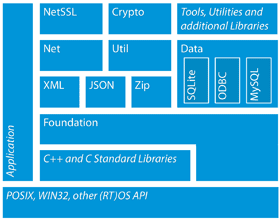
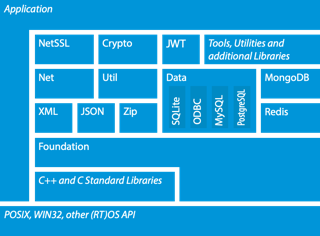
updated README and overview pic

diff --git a/README.md b/README.md
@@ -6,12 +6,11 @@
 [![CII Best Practices](https://bestpractices.coreinfrastructure.org/projects/370/badge)](https://bestpractices.coreinfrastructure.org/projects/370)
 
 
-POCO (Portable Components) C++ Libraries are:
----------------------------------------------
+### POCO (Portable Components) C++ Libraries are:
 
-- A collection of C++ class libraries, conceptually similar to the Java Class Library, the .NET Framework or Apple’s Cocoa.
+- A collection of C++ class libraries, conceptually similar to the Java Class Library or the .NET Framework.
 - Focused on solutions to frequently-encountered practical problems.
-- Focused on ‘internet-age’ network-centric applications.
+- Focused on "internet-age" network-centric applications.
 - Written in efficient, modern, 100% ANSI/ISO Standard C++.
 - Based on and complementing the C++ Standard Library/STL.
 - Highly portable and available on many different platforms, from embedded to server.
@@ -19,17 +18,52 @@ POCO (Portable Components) C++ Libraries are:
 
 ![alt text][overview]
 
-----
 To start using POCO, see the [Guided Tour](https://pocoproject.org/docs/00100-GuidedTour.html)
 and [Getting Started](https://pocoproject.org/docs/00200-GettingStarted.html) documents.
 
-----
-POCO has an active user and contributing community, please visit our [web site](https://pocoproject.org) and [blog](https://pocoproject.org/blog).
+
+## Quick Start (with CMake)
+
+### Prerequisites
+
+- CMake 3.5 or newer
+- A C++14 compiler (Visual C++ 2015, GCC 5.0, Clang 3.4, or newer)
+- OpenSSL headers and libraries (optional, but recommended; on macOS, via Homebrew: `brew install openssl`)
+
+### Building
+
+```
+$ git clone -b master https://github.com/pocoproject/poco.git
+$ cd poco
+$ mkdir cmake-build
+$ cd cmake-build
+$ cmake .. && cmake --build .
+```
+
+You can also run:
+
+```
+$ sudo cmake --build . --target install
+```
+
+in the `cmake-build` directory to install POCO (default `/usr/local` on Linux or macOS).
+
+If you do not want to or cannot use CMake, POCO can also be built with Visual Studio
+(project and solution files included) or GNU Make.
+
+Please refer to the [documentation](https://pocoproject.org/docs) for more information.
+
+POCO can also be obtained via different [package managers](https://pocoproject.org/download.html).
+
+## Community and Contributing
+
+POCO has an active user and contributing community, please visit our [website](https://pocoproject.org) and [blog](https://pocoproject.org/blog).
 Answers to POCO-related questions can also be found on [Stack Overflow](https://stackoverflow.com/questions/tagged/poco-libraries).
 
 Please see [CONTRIBUTING](CONTRIBUTING.md) for submitting contributions, bugs reports, feature requests or security issues.
 
-----
+### POCO vs. Boost
+
 In regards to Boost, in spite of some functional overlapping,
 POCO is best thought of as a Boost complement (rather than replacement).
 Side-by-side use of Boost and POCO is a very common occurrence.
